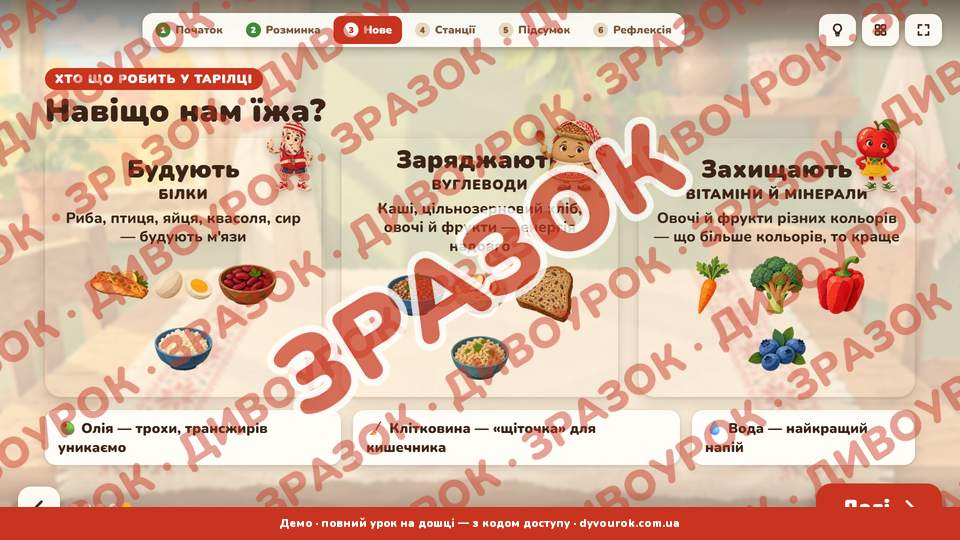
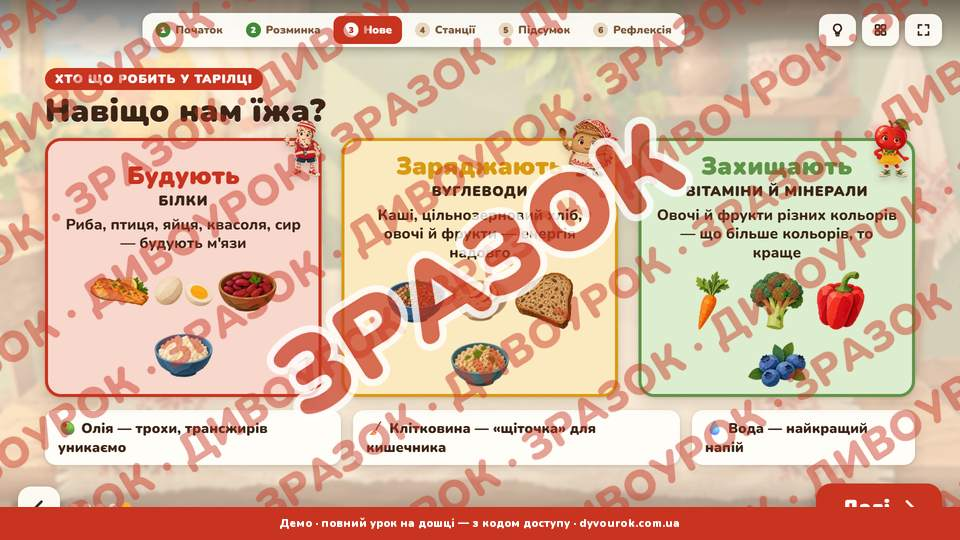
fix(tarilka): explain the stations on screen, fix label highlights and lost colors
The stations screen now explains the rotation (three groups, 4 minutes,
three rounds). Each station shows what to take from the printed set and
what to do, and which group is there now. The teacher tip lists which PDF
pages to print.

On the label, the ingredients and allergen highlights no longer nest and
cover the text, and the product name is back on its own line.

The element helper did not set CSS custom properties, so card colors were
lost: station numbers, top stripes, the backs of the role cards and the
"how often" cards. It now uses setProperty for --vars.

Changed region(s): [[0.0312, 0.2074, 0.9688, 0.7407]]

diff --git a/public/packs/tarilka/prez/board.js b/public/packs/tarilka/prez/board.js
@@ -12,7 +12,8 @@
       if (k === 'class') e.className = v;
       else if (k === 'html') e.innerHTML = v;
       else if (k.startsWith('on')) e.addEventListener(k.slice(2), v);
-      else if (k === 'style' && typeof v === 'object') Object.assign(e.style, v);
+      // змінні CSS (--c) через Object.assign не ставляться — лише setProperty
+      else if (k === 'style' && typeof v === 'object') for (const [p, x] of Object.entries(v)) { if (p.startsWith('--')) e.style.setProperty(p, x); else e.style[p] = x; }
       else e.setAttribute(k, v);
     }
     for (const kid of kids.flat()) if (kid != null && kid !== false) e.append(kid.nodeType ? kid : document.createTextNode(kid));
@@ -395,30 +396,41 @@
       return { step(s) { cards.forEach((c, i) => c.classList.toggle('on', s > i)); } };
     } });
 
-  // 11. Станції з таймером
+  // 11. Станції: три групи по колу, на кожній — друковані матеріали з набору (kartky-stancii.pdf, plakaty.pdf)
   add({ stage: 'practice', title: 'Станції', bg: 'img/bg/class.webp', bgcls: 'dim',
-    tip: 'Три групи, по 4 хвилини на станції. Натисніть «Старт»; коли час вийде — «Наступне коло», і групи переходять далі.',
+    tip: 'Роздрукуйте заздалегідь: картки продуктів (с. 1–4) і картки станцій (с. 6–8) з PDF «Картки й станції», етикетки й картку детектива (с. 9–11), плакат-тарілку (PDF «Плакати», с. 1). Розкладіть на трьох партах.',
     build(el) {
-      const ST = [['Збери тарілку', 'station_plate', 'Обід з карток: ½ овочі й фрукти, ¼ каша, ¼ білок і напій. Поясніть вибір!', 'var(--veg)'],
-        ['Детектив етикеток', 'station_label', 'Знайдіть склад, цукри й сіль на 100 г, алергени й дату.', 'var(--water)'],
-        ['Меню на день', 'station_menu', 'Сніданок, обід, вечеря й 1–2 перекуси. Чи є 5 жмень овочів і фруктів? Чи є вода?', 'var(--grain)']];
+      const ST = [['Збери тарілку', 'station_plate', 'var(--veg)', 'Картки продуктів і плакат-тарілка',
+          'Складіть обід: ½ — овочі й фрукти, ¼ — каша, ¼ — білок і напій. Поясніть, чому так.'],
+        ['Детектив етикеток', 'station_label', 'var(--water)', '4 етикетки й картка детектива',
+          'Знайдіть на етикетці склад, цукри й сіль на 100 г, алергени й дату. Заповніть картку.'],
+        ['Меню на день', 'station_menu', 'var(--grain)', 'Картки продуктів',
+          'Сніданок, обід, вечеря й 1–2 перекуси. Чи є 5 жмень овочів і фруктів? Чи є вода?']];
       let round = 0;
-      const grp = ST.map(() => h('div', { class: 'grp' }));
-      const cards = ST.map(([t, img, d, c], i) => h('div', { class: 'stc paper', style: { '--c': c } }, h('span', { class: 'num' }, String(i + 1)),
-        h('img', { src: `img/art/${img}.webp`, alt: '' }), h('h3', {}, t), h('p', {}, d), grp[i]));
+      const grp = ST.map(() => h('b', {}));
+      const cards = ST.map(([t, img, c, need, task], i) => h('div', { class: 'stc paper', style: { '--c': c } },
+        h('div', { class: 'top' }, h('span', { class: 'num' }, String(i + 1)), h('img', { src: `img/art/${img}.webp`, alt: '' })),
+        h('h3', {}, t),
+        h('p', { class: 'need' }, h('i', {}, 'Що взяти: '), need),
+        h('p', { class: 'do' }, task),
+        h('div', { class: 'grp' }, 'Зараз тут: ', grp[i])));
       const paint = () => grp.forEach((g, i) => { g.textContent = 'Група ' + (((i - round) % 3 + 3) % 3 + 1); });
       const TOTAL = 240; let left = TOTAL, tid = null;
-      const R = 140, C = 2 * Math.PI * R;
-      const ring = h('div', { class: 'ring', html: `<svg viewBox="0 0 320 320"><circle cx="160" cy="160" r="${R}" stroke="#EADBC4"/><circle class="p" cx="160" cy="160" r="${R}" stroke="#C8341F" stroke-linecap="round" stroke-dasharray="${C}" stroke-dashoffset="0"/></svg>` }, h('div', { class: 't' }));
+      const R = 100, C = 2 * Math.PI * R;
+      const ring = h('div', { class: 'ring', html: `<svg viewBox="0 0 240 240"><circle cx="120" cy="120" r="${R}" stroke="#EADBC4"/><circle class="p" cx="120" cy="120" r="${R}" stroke="#C8341F" stroke-linecap="round" stroke-dasharray="${C}" stroke-dashoffset="0"/></svg>` }, h('div', { class: 't' }));
       const draw = () => { ring.querySelector('.t').textContent = `${Math.floor(left / 60)}:${String(left % 60).padStart(2, '0')}`; ring.querySelector('.p').style.strokeDashoffset = C * (1 - left / TOTAL); ring.classList.toggle('end', left === 0); };
       const go = h('button', { class: 'main', onclick: () => { if (tid) { clearInterval(tid); tid = null; go.textContent = 'Старт'; } else { go.textContent = 'Пауза'; tid = setInterval(() => { if (left > 0) left--; draw(); if (!left) { clearInterval(tid); tid = null; go.textContent = 'Старт'; } }, 1000); } } }, 'Старт');
       const reset = () => { clearInterval(tid); tid = null; left = TOTAL; go.textContent = 'Старт'; draw(); };
       const rnd = h('div', { class: 'round' });
-      const nextRound = h('button', { onclick: () => { round = (round + 1) % 3; rnd.textContent = `Коло ${round + 1} з 3`; paint(); reset(); } }, 'Наступне коло');
-      const qr = h('div', { class: 'qrbox', html: (D.qr.gra || '') + '<p><b>Станція 1 на телефонах</b>веб-гра «Збери тарілку»<br>dyvourok.com.ua/tarilka/gra</p>' });
-      const timer = h('div', { class: 'timer paper' }, ring, rnd, h('div', { class: 'row' }, go, h('button', { onclick: reset }, 'Скинути')), nextRound, qr);
+      const nextRound = h('button', { class: 'nextround', onclick: () => { round = (round + 1) % 3; rnd.textContent = `Коло ${round + 1} з 3`; paint(); reset(); cards.forEach(c => { c.classList.remove('pop'); void c.offsetWidth; c.classList.add('pop'); }); } }, 'Групи переходять →');
+      const timer = h('div', { class: 'timer paper' }, rnd, ring, h('div', { class: 'row' }, go, h('button', { onclick: reset }, 'Скинути')), nextRound);
       rnd.textContent = 'Коло 1 з 3'; paint(); draw();
-      el.append(h('div', { class: 'body' }, header('Робота в групах', 'Три станції'), h('div', { class: 'st' }, cards, timer)));
+      const how = h('div', { class: 'how' },
+        h('span', {}, h('b', {}, '1'), 'Клас ділиться на 3 групи'),
+        h('span', {}, h('b', {}, '2'), '4 хвилини на станції'),
+        h('span', {}, h('b', {}, '3'), 'Час вийшов — групи переходять до наступної станції'),
+        h('span', {}, h('b', {}, '✓'), 'За 3 кола кожна група проходить усі станції'));
+      el.append(h('div', { class: 'body' }, header('Робота в групах', 'Три станції по колу'), how, h('div', { class: 'st' }, cards, timer)));
       return { leave() { clearInterval(tid); tid = null; go.textContent = 'Старт'; } };
     } });
 

diff --git a/public/packs/tarilka/pack.js b/public/packs/tarilka/pack.js
@@ -7,7 +7,7 @@
   subtitle: 'Здоров\'я, безпека та добробут · 6 клас',
   description: 'Урок на 45 хвилин про здорове й збалансоване харчування: тарілка здорового харчування, харчова піраміда, вода й прихований цукор, як читати етикетку. Інтерактивна презентація з трьома мультиками, станції для групової роботи, роздатки трьох рівнів, плакати, 40 карток продуктів, квіз і гра «Збери тарілку» для телефонів і смарт-дошки. Без розмов про дієти й вагу.',
   date: 'будь-коли',
-  versions: {"media/m1.jpg": "ef91c92635", "media/m1.mp4": "5c00099512", "media/m2.jpg": "409ae8e8b3", "media/m2.mp4": "fcc4fd7a75", "media/m3.jpg": "ec3ee65f74", "media/m3.mp4": "82c7da5c04", "docs/dzherela.pdf": "015c893439", "docs/kartky-stancii.pdf": "3b2402341c", "docs/konspekt.pdf": "2cb008d560", "docs/pamyatka-batkam.pdf": "409d6a23fd", "docs/plakaty.pdf": "d7ea701174", "docs/rozdatky-abv.pdf": "70b83ffa1b", "img/cover-card.jpg": "d191de96cb", "img/cover-card.webp": "885030d5c1", "img/handout-01.jpg": "f96f8506c3", "img/handout-02.jpg": "f57da30dbb", "img/handout-03.jpg": "01f67308b2", "img/handout-04.jpg": "922d1949b7", "img/handout-05.jpg": "f0c9ca9c7d", "img/handout-06.jpg": "2330267a96", "img/kartky-01.jpg": "4b15520ed2", "img/kartky-02.jpg": "c1c540c5e5", "img/kartky-03.jpg": "50698dd268", "img/kartky-04.jpg": "127f03e47b", "img/konspekt-01.jpg": "51def5aa7e", "img/pamyatka-01.jpg": "3b57948c2d", "img/plakat-01.jpg": "1e876c5c20", "img/plakat-02.jpg": "492087a068", "img/plakat-03.jpg": "67c50f1a11", "img/plakat-04.jpg": "fd9bfd9402", "img/pptx-01.jpg": "3e8af625c4", "img/pptx-02.jpg": "9d52ae5aad", "img/pptx-03.jpg": "a4e3184c7b", "img/pptx-04.jpg": "9853558d00", "img/pptx-05.jpg": "349cd4d5d2", "img/pptx-06.jpg": "3ce15d735b", "img/pptx-07.jpg": "a024476855", "img/pptx-08.jpg": "4f8ccd76f7", "img/pptx-09.jpg": "7eb4a98a3b", "img/slide-01.jpg": "83f2b43bca", "img/slide-02.jpg": "6081819717", "img/slide-03.jpg": "af3a71e437", "img/slide-04.jpg": "3a745439c4", "img/slide-05.jpg": "6da562df5d", "img/slide-06.jpg": "15a20755c2", "img/slide-07.jpg": "9a9705f69a", "img/slide-08.jpg": "8e17ef5807", "img/slide-09.jpg": "d6363d96e7"},
+  versions: {"media/m1.jpg": "ef91c92635", "media/m1.mp4": "5c00099512", "media/m2.jpg": "409ae8e8b3", "media/m2.mp4": "fcc4fd7a75", "media/m3.jpg": "ec3ee65f74", "media/m3.mp4": "82c7da5c04", "docs/dzherela.pdf": "015c893439", "docs/kartky-stancii.pdf": "3b2402341c", "docs/konspekt.pdf": "2cb008d560", "docs/pamyatka-batkam.pdf": "409d6a23fd", "docs/plakaty.pdf": "d7ea701174", "docs/rozdatky-abv.pdf": "70b83ffa1b", "img/cover-card.jpg": "d191de96cb", "img/cover-card.webp": "885030d5c1", "img/handout-01.jpg": "f96f8506c3", "img/handout-02.jpg": "f57da30dbb", "img/handout-03.jpg": "01f67308b2", "img/handout-04.jpg": "922d1949b7", "img/handout-05.jpg": "f0c9ca9c7d", "img/handout-06.jpg": "2330267a96", "img/kartky-01.jpg": "4b15520ed2", "img/kartky-02.jpg": "c1c540c5e5", "img/kartky-03.jpg": "50698dd268", "img/kartky-04.jpg": "127f03e47b", "img/konspekt-01.jpg": "51def5aa7e", "img/pamyatka-01.jpg": "3b57948c2d", "img/plakat-01.jpg": "1e876c5c20", "img/plakat-02.jpg": "492087a068", "img/plakat-03.jpg": "67c50f1a11", "img/plakat-04.jpg": "fd9bfd9402", "img/pptx-01.jpg": "3e8af625c4", "img/pptx-02.jpg": "9d52ae5aad", "img/pptx-03.jpg": "a4e3184c7b", "img/pptx-04.jpg": "9853558d00", "img/pptx-05.jpg": "349cd4d5d2", "img/pptx-06.jpg": "3ce15d735b", "img/pptx-07.jpg": "a024476855", "img/pptx-08.jpg": "4f8ccd76f7", "img/pptx-09.jpg": "7eb4a98a3b", "img/slide-01.jpg": "83f2b43bca", "img/slide-02.jpg": "6081819717", "img/slide-03.jpg": "8d2ea4d47f", "img/slide-04.jpg": "69004d7b84", "img/slide-05.jpg": "9595505b13", "img/slide-06.jpg": "2da256ba29", "img/slide-07.jpg": "5361d6dac0", "img/slide-08.jpg": "e48d98b985", "img/slide-09.jpg": "d6363d96e7"},
   subs: {"media/m1.mp4":[[0.6,4.88,"Марко знову проспав. «Не встигаю! Поїм потім!»"],[6.5,13.81,"До третього уроку Марко вже ледве тримає олівець. А що, як спробувати інакше?"],[16.0,19.16,"Каша дає енергію надовго!"],[19.3,21.26,"А я додаю вітамінів!"],[22.2,27.33,"Їжа — це енергія. А що більше рухаєшся, то більше її потрібно."],[27.33,32.47,"Що ж має бути на тарілці, щоб сил вистачило? Давайте з'ясуємо!"]],"media/m2.mp4":[[0.5,3.5,"Обід! Що ж покласти на тарілку?"],[5.4,11.59,"Половину тарілки — нам, овочам і фруктам! І що більше кольорів, то краще."],[12.0,18.27,"Гей, Картопле! Ти смачна, але на тарілці не рахуєшся як овоч!"],[20.0,25.73,"Чверть — мені й моїм друзям: кашам і цільнозерновому хлібу."],[25.73,27.97,"Ми заряджаємо енергією."],[28.5,35.2,"А решта — нам, білкам! Риба, птиця, яйця, квасоля — ми будуємо м'язи."],[35.2,39.18,"Рибу корисно їсти двічі-тричі на тиждень."],[40.6,43.03,"Трохи олії — і досить."],[43.5,50.11,"А пити найкраще мене — звичайну воду. Солодка газована вода — не для щодня."],[51.8,58.64,"Порцію можна відміряти рукою: кулак каші, долоня білка, кулак овочів."],[60.0,64.91,"Ковбаса й булки з білого борошна — їжа «час від часу», а не щодня."],[66.6,74.31,"Отже: половина — овочі й фрукти, чверть — каші, чверть — білок. І вода поруч!"],[74.8,82.19,"Цю тарілку придумали вчені Гарвардського університету, а в Україні її радить Міністерство охорони здоров'я."]],"media/m3.mp4":[[0.8,5.71,"Етикетка — це записка від виробника. Читаймо уважно!"],[5.71,9.97,"Склад пишуть так: що першим — того найбільше."],[10.7,14.92,"Алергени виділяють жирним шрифтом — їх легко помітити."],[14.92,18.67,"А тут написано, скільки в продукті цукру й солі."],[19.7,23.65,"«Вжити до» — після цієї дати їсти не можна."],[23.65,29.44,"«Краще спожити до» — після неї продукт може стати менш смачним."],[29.44,34.77,"Ваша черга, детективи! Знайдіть склад, цукор, сіль і дату."]]},
   base: 'packs/tarilka/',
   cover: 'img/cover-card.jpg',

diff --git a/public/packs/tarilka/prez/board.css b/public/packs/tarilka/prez/board.css
@@ -374,3 +374,37 @@ button{font:inherit;color:inherit;border:0;background:none;cursor:pointer}
 .vp-menu button{border:none;background:none;font:inherit;font-weight:800;font-size:26px;text-align:left;padding:14px 18px;border-radius:12px;cursor:pointer;color:inherit}
 .vp-menu button:hover{background:var(--cream)}
 .vp-menu button.sel{background:var(--red);color:#fff}
+
+/* станції v2 */
+.how{display:flex;gap:14px;margin:-6px 0 18px;flex:none}
+.how span{display:flex;align-items:center;gap:12px;background:var(--paper);border-radius:18px;padding:10px 18px 10px 10px;font-size:22px;font-weight:900;box-shadow:var(--sh);line-height:1.15}
+.how b{flex:none;width:40px;height:40px;border-radius:50%;background:var(--sun);display:grid;place-items:center;font-size:22px;font-weight:1000}
+.st{flex:1;min-height:0;display:grid;grid-template-columns:1fr 1fr 1fr 380px;gap:24px}
+.stc{display:flex;flex-direction:column;padding:18px 22px 18px;position:relative;border-top:12px solid var(--c);min-height:0;overflow:hidden}
+.stc .top{position:relative;display:flex;justify-content:center}
+.stc .top img{width:200px;height:200px;object-fit:contain;border-radius:16px}
+.stc .num{position:absolute;left:0;top:0;z-index:2;width:64px;height:64px;border-radius:50%;background:var(--c);color:#fff;font-size:36px;font-weight:1000;display:grid;place-items:center;box-shadow:0 4px 10px rgba(0,0,0,.2)}
+.stc h3{font-size:34px;font-weight:1000;text-align:center;line-height:1.05;margin-top:8px}
+.stc p{font-size:21px;font-weight:800;line-height:1.3;margin-top:8px;text-align:left}
+.stc .need{color:var(--muted)}
+.stc .need i{font-style:normal;font-weight:1000;color:var(--ink)}
+.stc .do{color:var(--ink)}
+.stc .grp{margin-top:auto;background:var(--cream);border-radius:16px;padding:10px 16px;font-size:24px;font-weight:900;text-align:center;box-shadow:inset 0 0 0 3px var(--c)}
+.stc .grp b{color:var(--red)}
+.timer{display:flex;flex-direction:column;align-items:center;justify-content:center;padding:22px;gap:14px;min-height:0}
+.timer .ring{width:220px;height:220px}
+.timer .ring .t{font-size:66px}
+.timer .row button{height:66px;font-size:26px}
+.timer .nextround{width:100%;height:66px;border-radius:22px;font-size:26px;font-weight:1000;background:var(--sun);box-shadow:var(--sh)}
+.timer .round{font-size:28px;font-weight:1000;color:var(--ink)}
+
+/* етикетка: підсвітки без накладання */
+.lab .z{padding:0;margin:0;border-radius:10px;box-shadow:none}
+.lab .z[data-z=sklad]{display:block;padding:8px 12px;margin:0 -12px}
+.lab .z[data-z=alerg]{padding:1px 4px;margin:0 -4px;border-radius:6px;-webkit-box-decoration-break:clone;box-decoration-break:clone}
+.lab .z[data-z=name],.lab .z[data-z=date]{display:inline-block;padding:2px 8px;margin:-2px -8px}
+.lab .z.found{background:#FFF0B8;box-shadow:inset 0 0 0 3px var(--sun)}
+.lab .z[data-z=alerg].found{background:#FFD45C;box-shadow:none}
+.lab .z[data-z=name]{display:block;padding:0;margin:0}
+.role .b{padding-top:56px}
+.role .b .mini{top:-46px;right:-8px;height:120px}

diff --git a/public/packs/tarilka/prez/index.html b/public/packs/tarilka/prez/index.html
@@ -4,11 +4,11 @@
 <meta charset="utf-8">
 <meta name="viewport" content="width=device-width,initial-scale=1">
 <title>Що на моїй тарілці? · Урок на дошці · Дивоурок</title>
-<link rel="stylesheet" href="board.css?v=0369280320">
+<link rel="stylesheet" href="board.css?v=d9f3bacacd">
 </head>
 <body>
 <div id="stage"></div>
 <script src="data.js?v=420a789ae2"></script>
-<script src="board.js?v=37eec35d3e"></script>
+<script src="board.js?v=738bd5fced"></script>
 </body>
 </html>

diff --git a/public/app/index.html b/public/app/index.html
@@ -20,7 +20,7 @@
 <div id="app"></div>
 <script src="packs/khlib/pack.js?v=0801200a0e"></script>
 <script src="packs/mova/pack.js?v=b02f0ddfca"></script>
-<script src="packs/tarilka/pack.js?v=a902825144"></script>
+<script src="packs/tarilka/pack.js?v=646dbbe36d"></script>
 <script src="js/star.js?v=b7e06e2615"></script>
 <script src="js/sfx.js?v=37eb85b0f8"></script>
 <script src="js/app.js?v=553b7e5716"></script>
